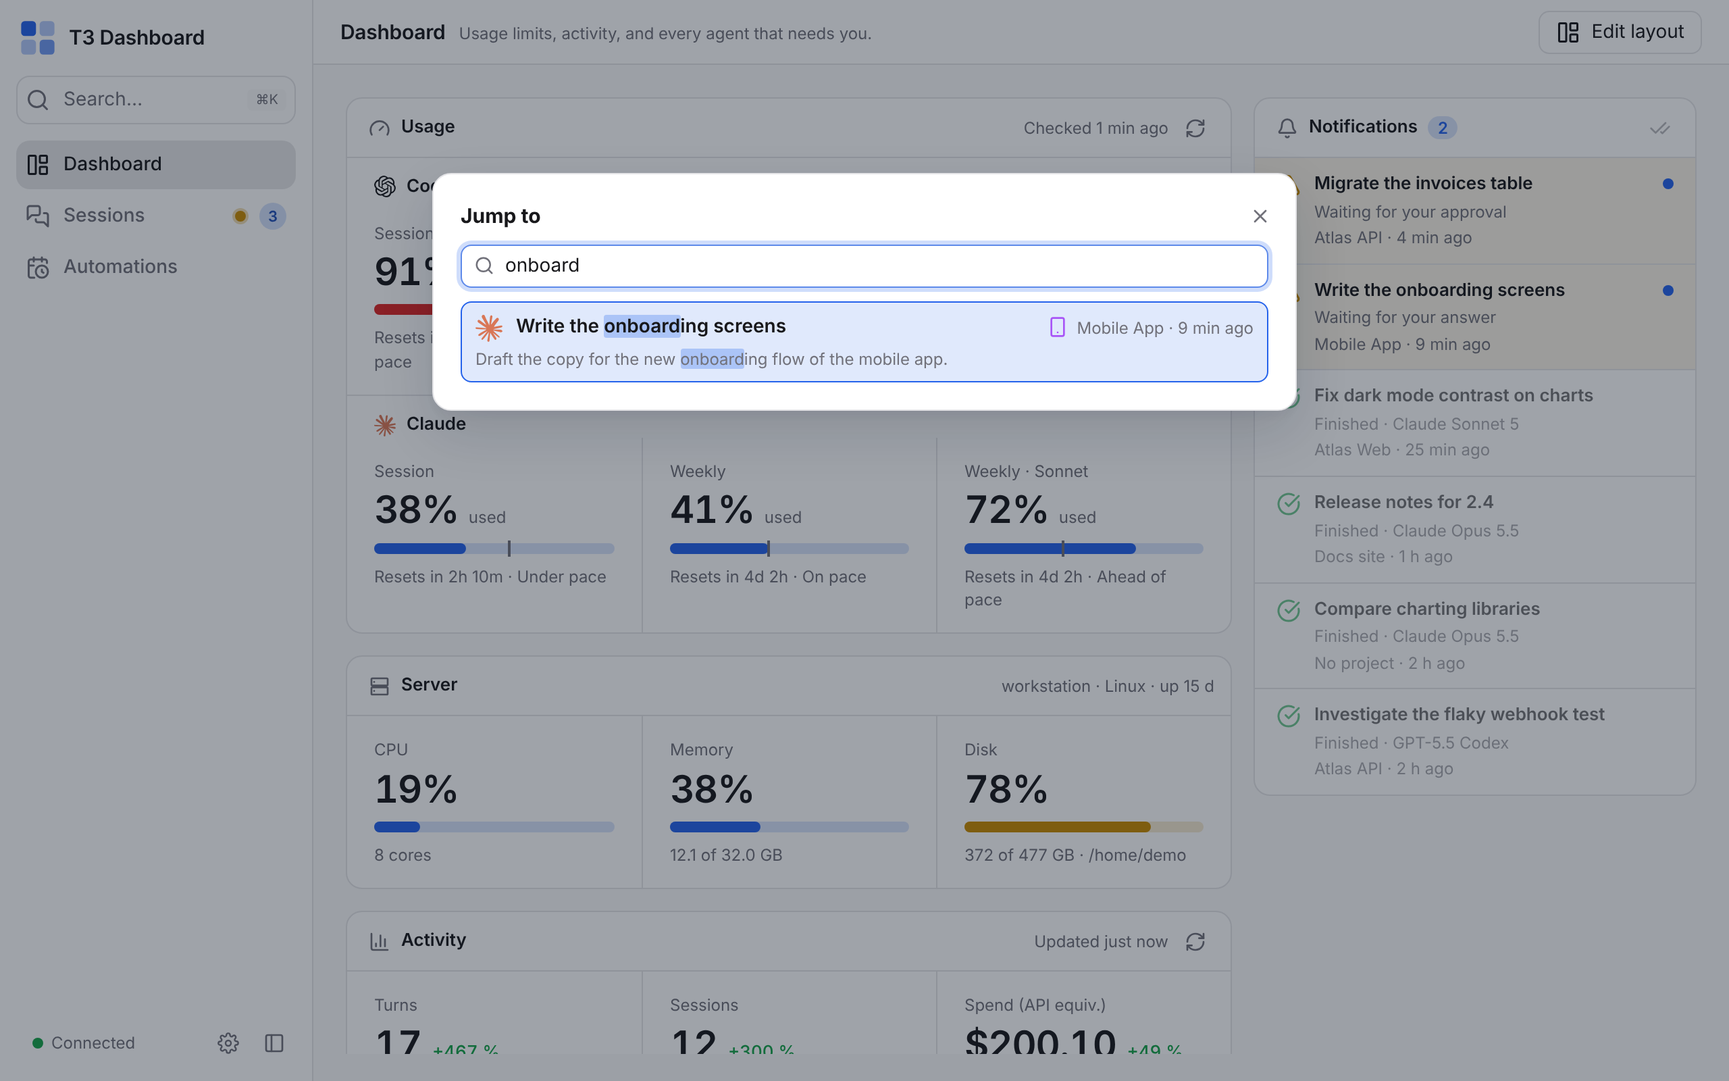
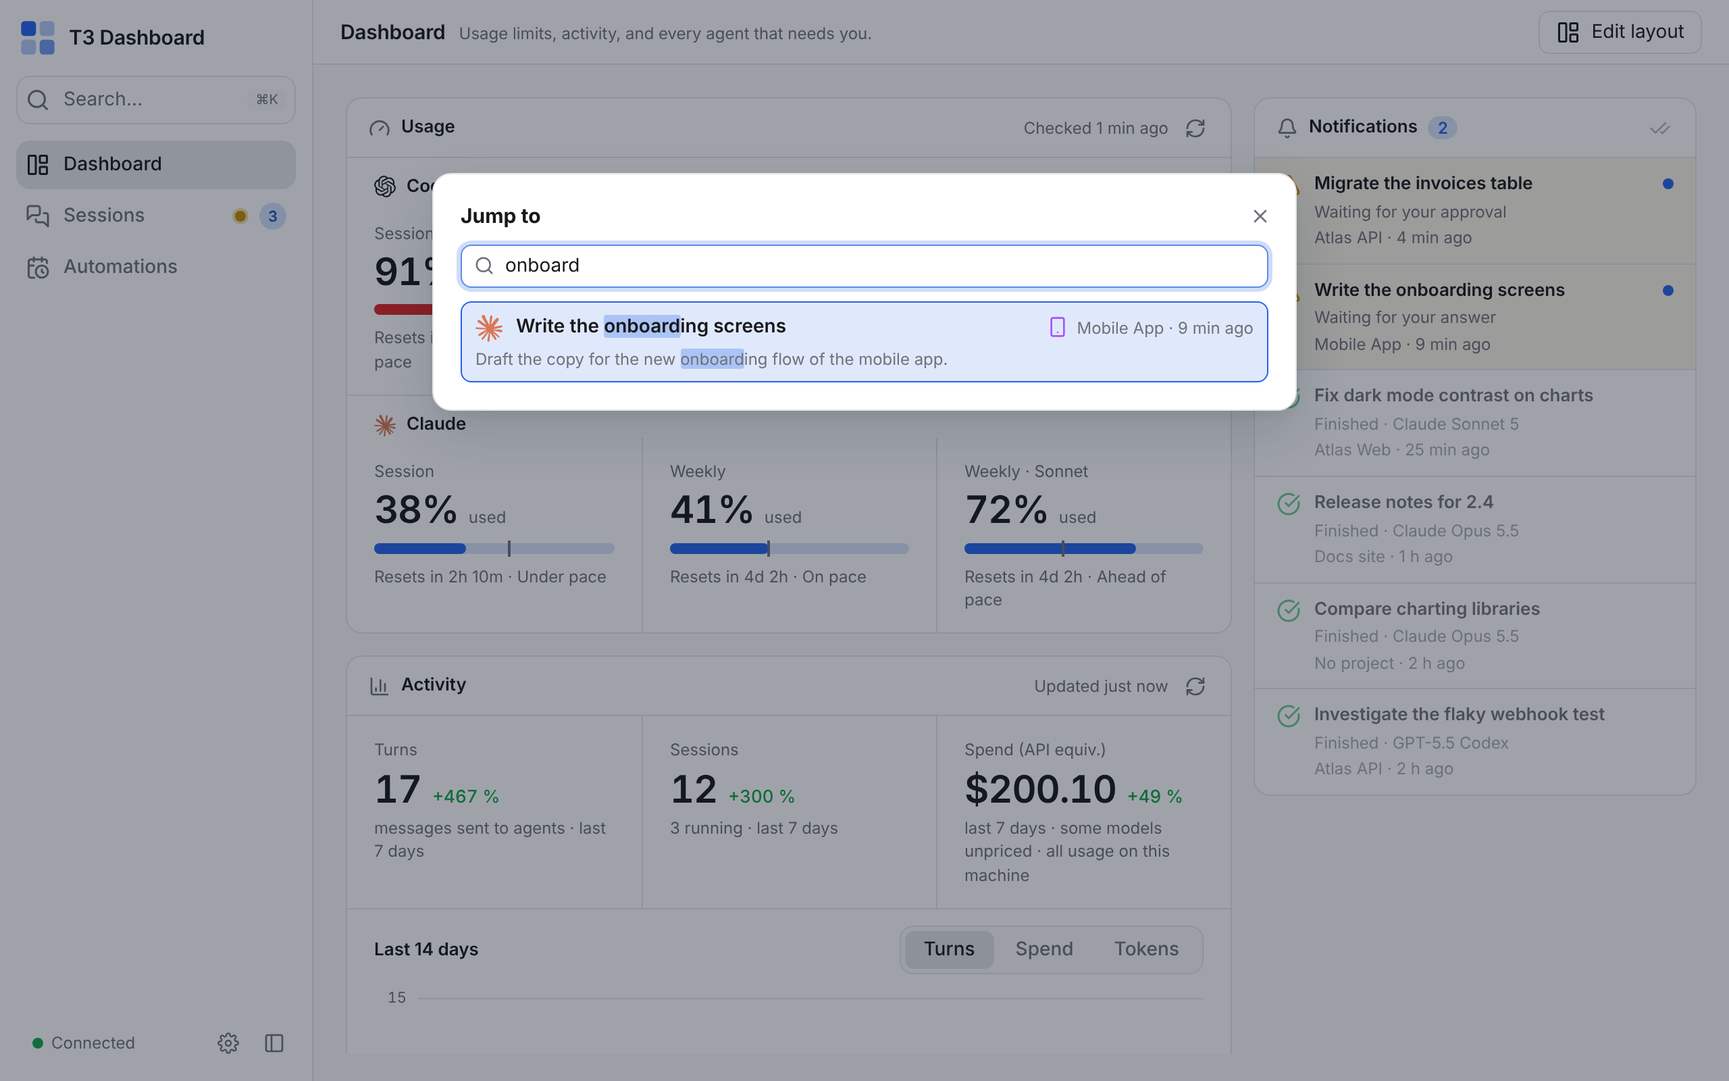
feat(dashboard): the Server card sits below Activity by default

diff --git a/web/test/features/dashboard/layout.test.ts b/web/test/features/dashboard/layout.test.ts
@@ -16,36 +16,36 @@ import {
 } from "../../../src/features/dashboard/layout.ts";
 import { memoryStore } from "../../fixtures.ts";
 
-test("the default layout has Usage, Server, Activity, Running and Up next on the left and Notifications on the right", () => {
-  assert.deepEqual(DEFAULT_LAYOUT, { left: ["usage", "server", "activity", "running", "up-next"], right: ["notifications"], hidden: [] });
+test("the default layout has Usage, Activity, Server, Running and Up next on the left and Notifications on the right", () => {
+  assert.deepEqual(DEFAULT_LAYOUT, { left: ["usage", "activity", "server", "running", "up-next"], right: ["notifications"], hidden: [] });
   assert.equal(isDefaultLayout(validateLayout(null)), true);
 });
 
 test("validation drops unknown and repeated ids and appends missing cards to their default column", () => {
   const layout = validateLayout({ left: ["running", "nope", "running", 4], right: ["usage"], hidden: [] });
-  assert.deepEqual(layout, { left: ["running", "server", "activity", "up-next"], right: ["usage", "notifications"], hidden: [] });
+  assert.deepEqual(layout, { left: ["running", "activity", "server", "up-next"], right: ["usage", "notifications"], hidden: [] });
   assert.deepEqual(validateLayout("junk"), DEFAULT_LAYOUT);
   assert.deepEqual(validateLayout({ left: "x", right: null, hidden: ["running"] }).hidden, ["running"]);
 });
 
 test("moveCard puts a card at an index of a column, also the other one", () => {
-  assert.deepEqual(moveCard(DEFAULT_LAYOUT, "up-next", "right", 0), { left: ["usage", "server", "activity", "running"], right: ["up-next", "notifications"], hidden: [] });
-  assert.deepEqual(moveCard(DEFAULT_LAYOUT, "usage", "left", 1).left, ["server", "usage", "activity", "running", "up-next"]);
+  assert.deepEqual(moveCard(DEFAULT_LAYOUT, "up-next", "right", 0), { left: ["usage", "activity", "server", "running"], right: ["up-next", "notifications"], hidden: [] });
+  assert.deepEqual(moveCard(DEFAULT_LAYOUT, "usage", "left", 1).left, ["activity", "usage", "server", "running", "up-next"]);
   assert.deepEqual(moveCard(DEFAULT_LAYOUT, "usage", "right").right, ["notifications", "usage"]);
 });
 
 test("shiftCard moves one step inside the column and stops at the ends", () => {
-  assert.deepEqual(shiftCard(DEFAULT_LAYOUT, "running", -1).left, ["usage", "server", "running", "activity", "up-next"]);
-  assert.deepEqual(shiftCard(DEFAULT_LAYOUT, "running", 1).left, ["usage", "server", "activity", "up-next", "running"]);
+  assert.deepEqual(shiftCard(DEFAULT_LAYOUT, "running", -1).left, ["usage", "activity", "running", "server", "up-next"]);
+  assert.deepEqual(shiftCard(DEFAULT_LAYOUT, "running", 1).left, ["usage", "activity", "server", "up-next", "running"]);
   assert.equal(shiftCard(DEFAULT_LAYOUT, "usage", -1), DEFAULT_LAYOUT);
   assert.equal(shiftCard(DEFAULT_LAYOUT, "notifications", 1), DEFAULT_LAYOUT);
 });
 
 test("a hidden card leaves both columns and comes back to its default column", () => {
   const hidden = setHidden(DEFAULT_LAYOUT, "running", true);
-  assert.deepEqual(hidden, { left: ["usage", "server", "activity", "up-next"], right: ["notifications"], hidden: ["running"] });
+  assert.deepEqual(hidden, { left: ["usage", "activity", "server", "up-next"], right: ["notifications"], hidden: ["running"] });
   assert.equal(shiftCard(hidden, "running", 1), hidden);
-  assert.deepEqual(setHidden(hidden, "running", false).left, ["usage", "server", "activity", "up-next", "running"]);
+  assert.deepEqual(setHidden(hidden, "running", false).left, ["usage", "activity", "server", "up-next", "running"]);
   assert.equal(setHidden(DEFAULT_LAYOUT, "running", false), DEFAULT_LAYOUT);
 });
 
@@ -62,11 +62,11 @@ test("the cards have their titles", () => {
 
 test("moving a hidden card shows it", () => {
   const layout = moveCard(setHidden(DEFAULT_LAYOUT, "running", true), "running", "right", 0);
-  assert.deepEqual(layout, { left: ["usage", "server", "activity", "up-next"], right: ["running", "notifications"], hidden: [] });
+  assert.deepEqual(layout, { left: ["usage", "activity", "server", "up-next"], right: ["running", "notifications"], hidden: [] });
 });
 
 test("on a phone Usage leads, then the right column, then the rest", () => {
-  assert.deepEqual(stackedOrder(DEFAULT_LAYOUT), ["usage", "notifications", "server", "activity", "running", "up-next"]);
+  assert.deepEqual(stackedOrder(DEFAULT_LAYOUT), ["usage", "notifications", "activity", "server", "running", "up-next"]);
 });
 
 test("the layout is saved and loaded, and a broken value gives the default", () => {
@@ -80,10 +80,10 @@ test("the layout is saved and loaded, and a broken value gives the default", () 
 });
 
 test("dropCard lands before the target slot, and changes nothing next to the card", () => {
-  // Default left column: usage, server, activity, running, up-next.
-  assert.deepEqual(dropCard(DEFAULT_LAYOUT, "usage", "left", 2).left, ["server", "usage", "activity", "running", "up-next"]);
-  assert.deepEqual(dropCard(DEFAULT_LAYOUT, "usage", "left", 5).left, ["server", "activity", "running", "up-next", "usage"]);
-  assert.deepEqual(dropCard(DEFAULT_LAYOUT, "up-next", "left", 0).left, ["up-next", "usage", "server", "activity", "running"]);
+  // Default left column: usage, activity, server, running, up-next.
+  assert.deepEqual(dropCard(DEFAULT_LAYOUT, "usage", "left", 2).left, ["activity", "usage", "server", "running", "up-next"]);
+  assert.deepEqual(dropCard(DEFAULT_LAYOUT, "usage", "left", 5).left, ["activity", "server", "running", "up-next", "usage"]);
+  assert.deepEqual(dropCard(DEFAULT_LAYOUT, "up-next", "left", 0).left, ["up-next", "usage", "activity", "server", "running"]);
   assert.deepEqual(dropCard(DEFAULT_LAYOUT, "running", "right", 1).right, ["notifications", "running"]);
   assert.equal(dropCard(DEFAULT_LAYOUT, "running", "left", 3), DEFAULT_LAYOUT);
   assert.equal(dropCard(DEFAULT_LAYOUT, "running", "left", 4), DEFAULT_LAYOUT);

diff --git a/web/test/features/dashboard/DashboardView.test.tsx b/web/test/features/dashboard/DashboardView.test.tsx
@@ -136,13 +136,13 @@ test("the chart has one labelled bar slot per day, today last, and a table for s
   assert.match(out, /<table class="sr-only">/);
 });
 
-test("the default layout puts Usage, Server, Activity, Running and Up next left and Notifications right", () => {
+test("the default layout puts Usage, Activity, Server, Running and Up next left and Notifications right", () => {
   const out = render(state());
   const right = out.indexOf('class="dashboard-col right pinned"');
   assert.ok(right > 0);
-  assert.ok(out.indexOf('id="dashboard-usage-head"') < out.indexOf('id="dashboard-server-head"'));
-  assert.ok(out.indexOf('id="dashboard-server-head"') < out.indexOf('id="dashboard-activity-head"'));
-  assert.ok(out.indexOf('id="dashboard-activity-head"') < out.indexOf('id="running-head"'));
+  assert.ok(out.indexOf('id="dashboard-usage-head"') < out.indexOf('id="dashboard-activity-head"'));
+  assert.ok(out.indexOf('id="dashboard-activity-head"') < out.indexOf('id="dashboard-server-head"'));
+  assert.ok(out.indexOf('id="dashboard-server-head"') < out.indexOf('id="running-head"'));
   assert.ok(out.indexOf('id="running-head"') < out.indexOf('id="up-next-head"'));
   assert.ok(out.indexOf('id="up-next-head"') < right);
   assert.ok(right < out.indexOf('id="notifications-head"'));

diff --git a/web/src/features/dashboard/layout.ts b/web/src/features/dashboard/layout.ts
@@ -2,7 +2,7 @@ import { readJson, writeKey, type Store } from "../../lib/storage.ts";
 
 export const DASHBOARD_LAYOUT_KEY = "t3-dashboard-layout";
 
-const CARDS = ["usage", "server", "activity", "notifications", "running", "up-next"] as const;
+const CARDS = ["usage", "activity", "server", "notifications", "running", "up-next"] as const;
 export type DashboardCard = (typeof CARDS)[number];
 export type Column = "left" | "right";
 
@@ -15,7 +15,7 @@ export interface DashboardLayout {
   hidden: DashboardCard[];
 }
 
-export const DEFAULT_LAYOUT: DashboardLayout = { left: ["usage", "server", "activity", "running", "up-next"], right: ["notifications"], hidden: [] };
+export const DEFAULT_LAYOUT: DashboardLayout = { left: ["usage", "activity", "server", "running", "up-next"], right: ["notifications"], hidden: [] };
 const DEFAULT_COLUMN: Record<DashboardCard, Column> = { usage: "left", server: "left", activity: "left", running: "left", "up-next": "left", notifications: "right" };
 
 const isCard = (v: unknown): v is DashboardCard => CARDS.includes(v as DashboardCard);

diff --git a/docs/development.md b/docs/development.md
@@ -69,7 +69,7 @@ These actions write to the real T3 Code. Do them once after each T3 update.
 19. Agent rules and the guard. Use a temporary `CLAUDE_CONFIG_DIR` and `CODEX_HOME`. Run `t3-dashboard install`: make sure that both files have the block between the markers and that your text is unchanged. Run it again: make sure that nothing changes. Run `uninstall`: make sure that the block is gone. Then, with the real T3 Code, create a task in a worktree (for example with `schedule_task`): make sure that the dashboard moves it to the project folder, and that a finished reminder gets paused.
 20. Send a message with a PNG and text, then one with only a PNG, and one with a PDF, an HTML file and a ZIP. Make sure that, in your messages, the images and file chips sit inside the bubble above the text (the bubble exists with no text). Make sure that, in an agent message with attachments, they sit above the text with no bubble. Click an image, the PDF, the HTML file and a text file: make sure that each opens the preview dialog (the image large, the others in a frame), that "Download" saves the file and "Open in new tab" opens it, and that `Escape` and a click outside close the dialog. Make sure that the ZIP downloads with no dialog. Queue a message with an image during a run: make sure that its image opens the same dialog. Click an image that an agent cites (`![x](/abs/path.png)`): make sure that the same dialog opens. Load an image in the last message: make sure that the list stays at the bottom.
 21. With the real Linear key, open Dashboard. Make sure that only "Todo" and "In Progress" tickets show, in "Up next" and "To relaunch". Click the copy button of a ticket: make sure that the clipboard holds the issue link. Click the robot button: make sure that the New Session window opens with the ticket. Create the session: make sure that it opens in Sessions and that the ticket leaves the list. On another ticket of the same team, make sure that the window selects the same project.
-22. Sidebar and Dashboard. Collapse the sidebar with its button, reload: make sure that it stays collapsed and that the icons show a tooltip. Make sure that `Ctrl+B` collapses it, that `Ctrl+1` opens Dashboard and that the Dashboard entry shows the unread number (`9+` above 9). Start a run on a thread that is not open: make sure that the Sessions entry counts it, and that it still counts it once the run finishes, until you read it. Make sure that the last row of the sidebar holds "Connected", Settings and the collapse button. In a 430 px wide window, make sure that a bottom bar (Dashboard, Sessions, Automations; Settings is in the header) replaces the sidebar, with badges on the icons, and that the Sessions composer stays above it. On Dashboard, make sure that the Usage card shows Codex, then Claude, with a tile per window (percent used, severity meter with an elapsed-time tick, reset countdown and pace caption, credits in the provider header). Compare a row with the Limits tab of T3 Code. Make sure that the Server card shows CPU, Memory and Disk tiles with meters, and a header line with the host, the system and the uptime. Compare the numbers with `top`, `free` and `df` (the home disk), and make sure that they move every 10 seconds. Make sure that the Activity card shows the three tiles and the 14-day chart (Turns, Spend, Tokens), and that the Running, Up next and Notifications cards show. At 1280 px, make sure that Notifications sits in a right column and stays in view while the page scrolls. At 430 px, make sure that the order is Usage, Notifications, Server, Activity, Running, Up next. With a layout saved before the Server card, make sure that Server shows at the end of the left column. With an old T3 Code (no `usageLimits` in `server.getConfig`), make sure that the Usage card says that it does not report limits. With an old T3 Code (no `server.getUsageSummary`), make sure that Spend shows "—" and a reason, and that the Dashboard cards still work.
+22. Sidebar and Dashboard. Collapse the sidebar with its button, reload: make sure that it stays collapsed and that the icons show a tooltip. Make sure that `Ctrl+B` collapses it, that `Ctrl+1` opens Dashboard and that the Dashboard entry shows the unread number (`9+` above 9). Start a run on a thread that is not open: make sure that the Sessions entry counts it, and that it still counts it once the run finishes, until you read it. Make sure that the last row of the sidebar holds "Connected", Settings and the collapse button. In a 430 px wide window, make sure that a bottom bar (Dashboard, Sessions, Automations; Settings is in the header) replaces the sidebar, with badges on the icons, and that the Sessions composer stays above it. On Dashboard, make sure that the Usage card shows Codex, then Claude, with a tile per window (percent used, severity meter with an elapsed-time tick, reset countdown and pace caption, credits in the provider header). Compare a row with the Limits tab of T3 Code. Make sure that the Server card shows CPU, Memory and Disk tiles with meters, and a header line with the host, the system and the uptime. Compare the numbers with `top`, `free` and `df` (the home disk), and make sure that they move every 10 seconds. Make sure that the Activity card shows the three tiles and the 14-day chart (Turns, Spend, Tokens), and that the Running, Up next and Notifications cards show. At 1280 px, make sure that Notifications sits in a right column and stays in view while the page scrolls. At 430 px, make sure that the order is Usage, Notifications, Activity, Server, Running, Up next. With a layout saved before the Server card, make sure that Server shows at the end of the left column. With an old T3 Code (no `usageLimits` in `server.getConfig`), make sure that the Usage card says that it does not report limits. With an old T3 Code (no `server.getUsageSummary`), make sure that Spend shows "—" and a reason, and that the Dashboard cards still work.
 23. Header and Dashboard layout. Make sure that the header is about 48 px high on one line. Make sure that Sessions shows the list toggle (wide screen), the layout toggle and New Session, Automations only New Automation and Dashboard only Edit layout, and that `Ctrl+N` and `Ctrl+Shift+N` still open their dialog on every page. In a 430 px wide window, make sure that the header shows the page button as an icon, a search button, and that the targets are 44 px high. On Dashboard, click "Edit layout": make sure that the button becomes "Done" with "Reset" before it, that each card has a bar, and that the cards do not react to clicks. Drag a card by its handle to the other column and between two cards. Use the arrow buttons to move a card up, down and to the other column. Hide a card, then show it from the "Hidden cards" list. Hide the Server card: make sure that the requests to `/api/server-stats` stop, and that they start again when you show it. Reload: make sure that the layout stays. Click "Reset": make sure that the default layout returns.
 24. Sessions. Start a run in T3 Code on a thread that is not open: make sure that no column opens and that the list shows it running. Open 8 sessions one after another: make sure that each opens at the right end, that the strip scrolls sideways, that the columns are at least 380 px wide with a hairline between them and no gap. With 2 sessions, make sure that the two columns share the full width. Click the layout button ("Switch to grid view"): make sure that two sessions stack in each column and that an odd last session fills its column. Reload: make sure that the view stays. Press `←` and `→` (and `↑` `↓` in grid view): make sure that the focus moves and the column scrolls into view. Press `Ctrl+F` while the strip is scrolled: make sure that the session fills the page, and that `Esc` leaves it. Make sure that the list panel groups the threads by project, that a fold and the flat view stay after a reload, that a project with no listed thread has no row, that open threads have the accent bar and a bold title, closed ones a muted title, and the focused one a filled row, and that a click on a row opens or focuses its column and scrolls it into view. Point at an open row and click its cross: make sure that its column closes and the row stays, muted. Click "+" on a project: make sure that New Session opens with that project. Make sure that the list has a slim top band (collapse/expand all, view toggle and close all on the right) and no bottom band, and that the page header buttons are, in order: list toggle, layout toggle, New Session. Click "Collapse all projects": make sure that every project folds and the button becomes "Expand all projects"; click it and make sure that all open. Click "Hide the list" in the page header: make sure that the list disappears with no rail and that the button becomes "Show the list"; reload, and click it. In a 430 px wide window, make sure that Sessions shows the list with the bottom bar, that the header has New Session and Search only (no list button), and that the band has the collapse/expand all, view toggle and close all. Tap a row: make sure that the session fills the screen with no bottom bar, that the back arrow returns to the list, and that a swipe moves between open sessions. Open a session from the Dashboard: make sure that it opens on the whole screen. Send a new message to it: make sure that the column comes back
 

diff --git a/docs/usage.md b/docs/usage.md
@@ -6,9 +6,9 @@ The dashboard has three pages: Dashboard, Sessions and Automations. A sidebar on
 
 ## Dashboard
 
-Dashboard opens first. At the top, the Usage card shows the usage limits of your providers (Codex, then Claude), read from T3 Code. Each provider has one tile per limit window (Session, Weekly, or a model-specific one). A tile shows the percent used and a meter. The meter fills with the percent used. It is blue below 75 %, amber from 75 % and red from 90 %. A thin tick shows the share of the window already elapsed. Under the meter, a caption gives the time to the reset and the pace (ahead of, on or under pace). When a provider has banked reset credits, its header shows their number with a ticket icon. The Server card shows the machine that runs the dashboard: three tiles with the CPU used (the percent busy since the last read, and the number of cores), the memory used (of the total) and the disk used (of the disk that holds your home directory). The meters use the same colors as the Usage card. A line in the header gives the host name, the system and the uptime. The card reads every 10 seconds while it shows. The Activity card comes next. It shows three numbers for the last 7 days, each with its change from the 7 days before: turns (the runs of your T3 Code threads: the messages sent to agents, by you or by an automation), sessions with at least one turn, and spend (the API equivalent). Spend and tokens come from T3 Code and cover all usage on this machine, not only these threads. A chart shows turns, spend or tokens for each of the last 14 days. Dashboard has two columns. The Usage, Server, Activity, Running and Up next cards are on the left. The Notifications card is on the right and stays in view while the page scrolls. On a phone, the cards stack in one column: Usage, Notifications, Server, Activity, Running, Up next.
+Dashboard opens first. At the top, the Usage card shows the usage limits of your providers (Codex, then Claude), read from T3 Code. Each provider has one tile per limit window (Session, Weekly, or a model-specific one). A tile shows the percent used and a meter. The meter fills with the percent used. It is blue below 75 %, amber from 75 % and red from 90 %. A thin tick shows the share of the window already elapsed. Under the meter, a caption gives the time to the reset and the pace (ahead of, on or under pace). When a provider has banked reset credits, its header shows their number with a ticket icon. The Activity card comes next. It shows three numbers for the last 7 days, each with its change from the 7 days before: turns (the runs of your T3 Code threads: the messages sent to agents, by you or by an automation), sessions with at least one turn, and spend (the API equivalent). Spend and tokens come from T3 Code and cover all usage on this machine, not only these threads. A chart shows turns, spend or tokens for each of the last 14 days. Below it, the Server card shows the machine that runs the dashboard: three tiles with the CPU used (the percent busy since the last read, and the number of cores), the memory used (of the total) and the disk used (of the disk that holds your home directory). The meters use the same colors as the Usage card. A line in the header gives the host name, the system and the uptime. The card reads every 10 seconds while it shows. Dashboard has two columns. The Usage, Activity, Server, Running and Up next cards are on the left. The Notifications card is on the right and stays in view while the page scrolls. On a phone, the cards stack in one column: Usage, Notifications, Activity, Server, Running, Up next.
 
-- Click "Edit layout" to move the cards. Drag a card by its header to another place, also into the other column. The arrow buttons move the card up, down or to the other column: use them with the keyboard or on a touch screen. The eye button hides the card. A list of hidden cards shows at the top, with a button to show each one. A hidden card reads no data: Usage, Server, Activity and Up next stop their calls, and read again when you show the card.
+- Click "Edit layout" to move the cards. Drag a card by its header to another place, also into the other column. The arrow buttons move the card up, down or to the other column: use them with the keyboard or on a touch screen. The eye button hides the card. A list of hidden cards shows at the top, with a button to show each one. A hidden card reads no data: Usage, Activity, Server and Up next stop their calls, and read again when you show the card.
 - Click "Done" to leave edit mode. "Reset" restores the default layout. The browser saves the layout (`t3-dashboard-layout` in local storage), so each browser has its own.
 
 - If T3 Code is too old to report usage limits, the Usage card says so. If it is too old to report usage, the spend shows "—" and the reason. The rest of the Dashboard keeps working.
